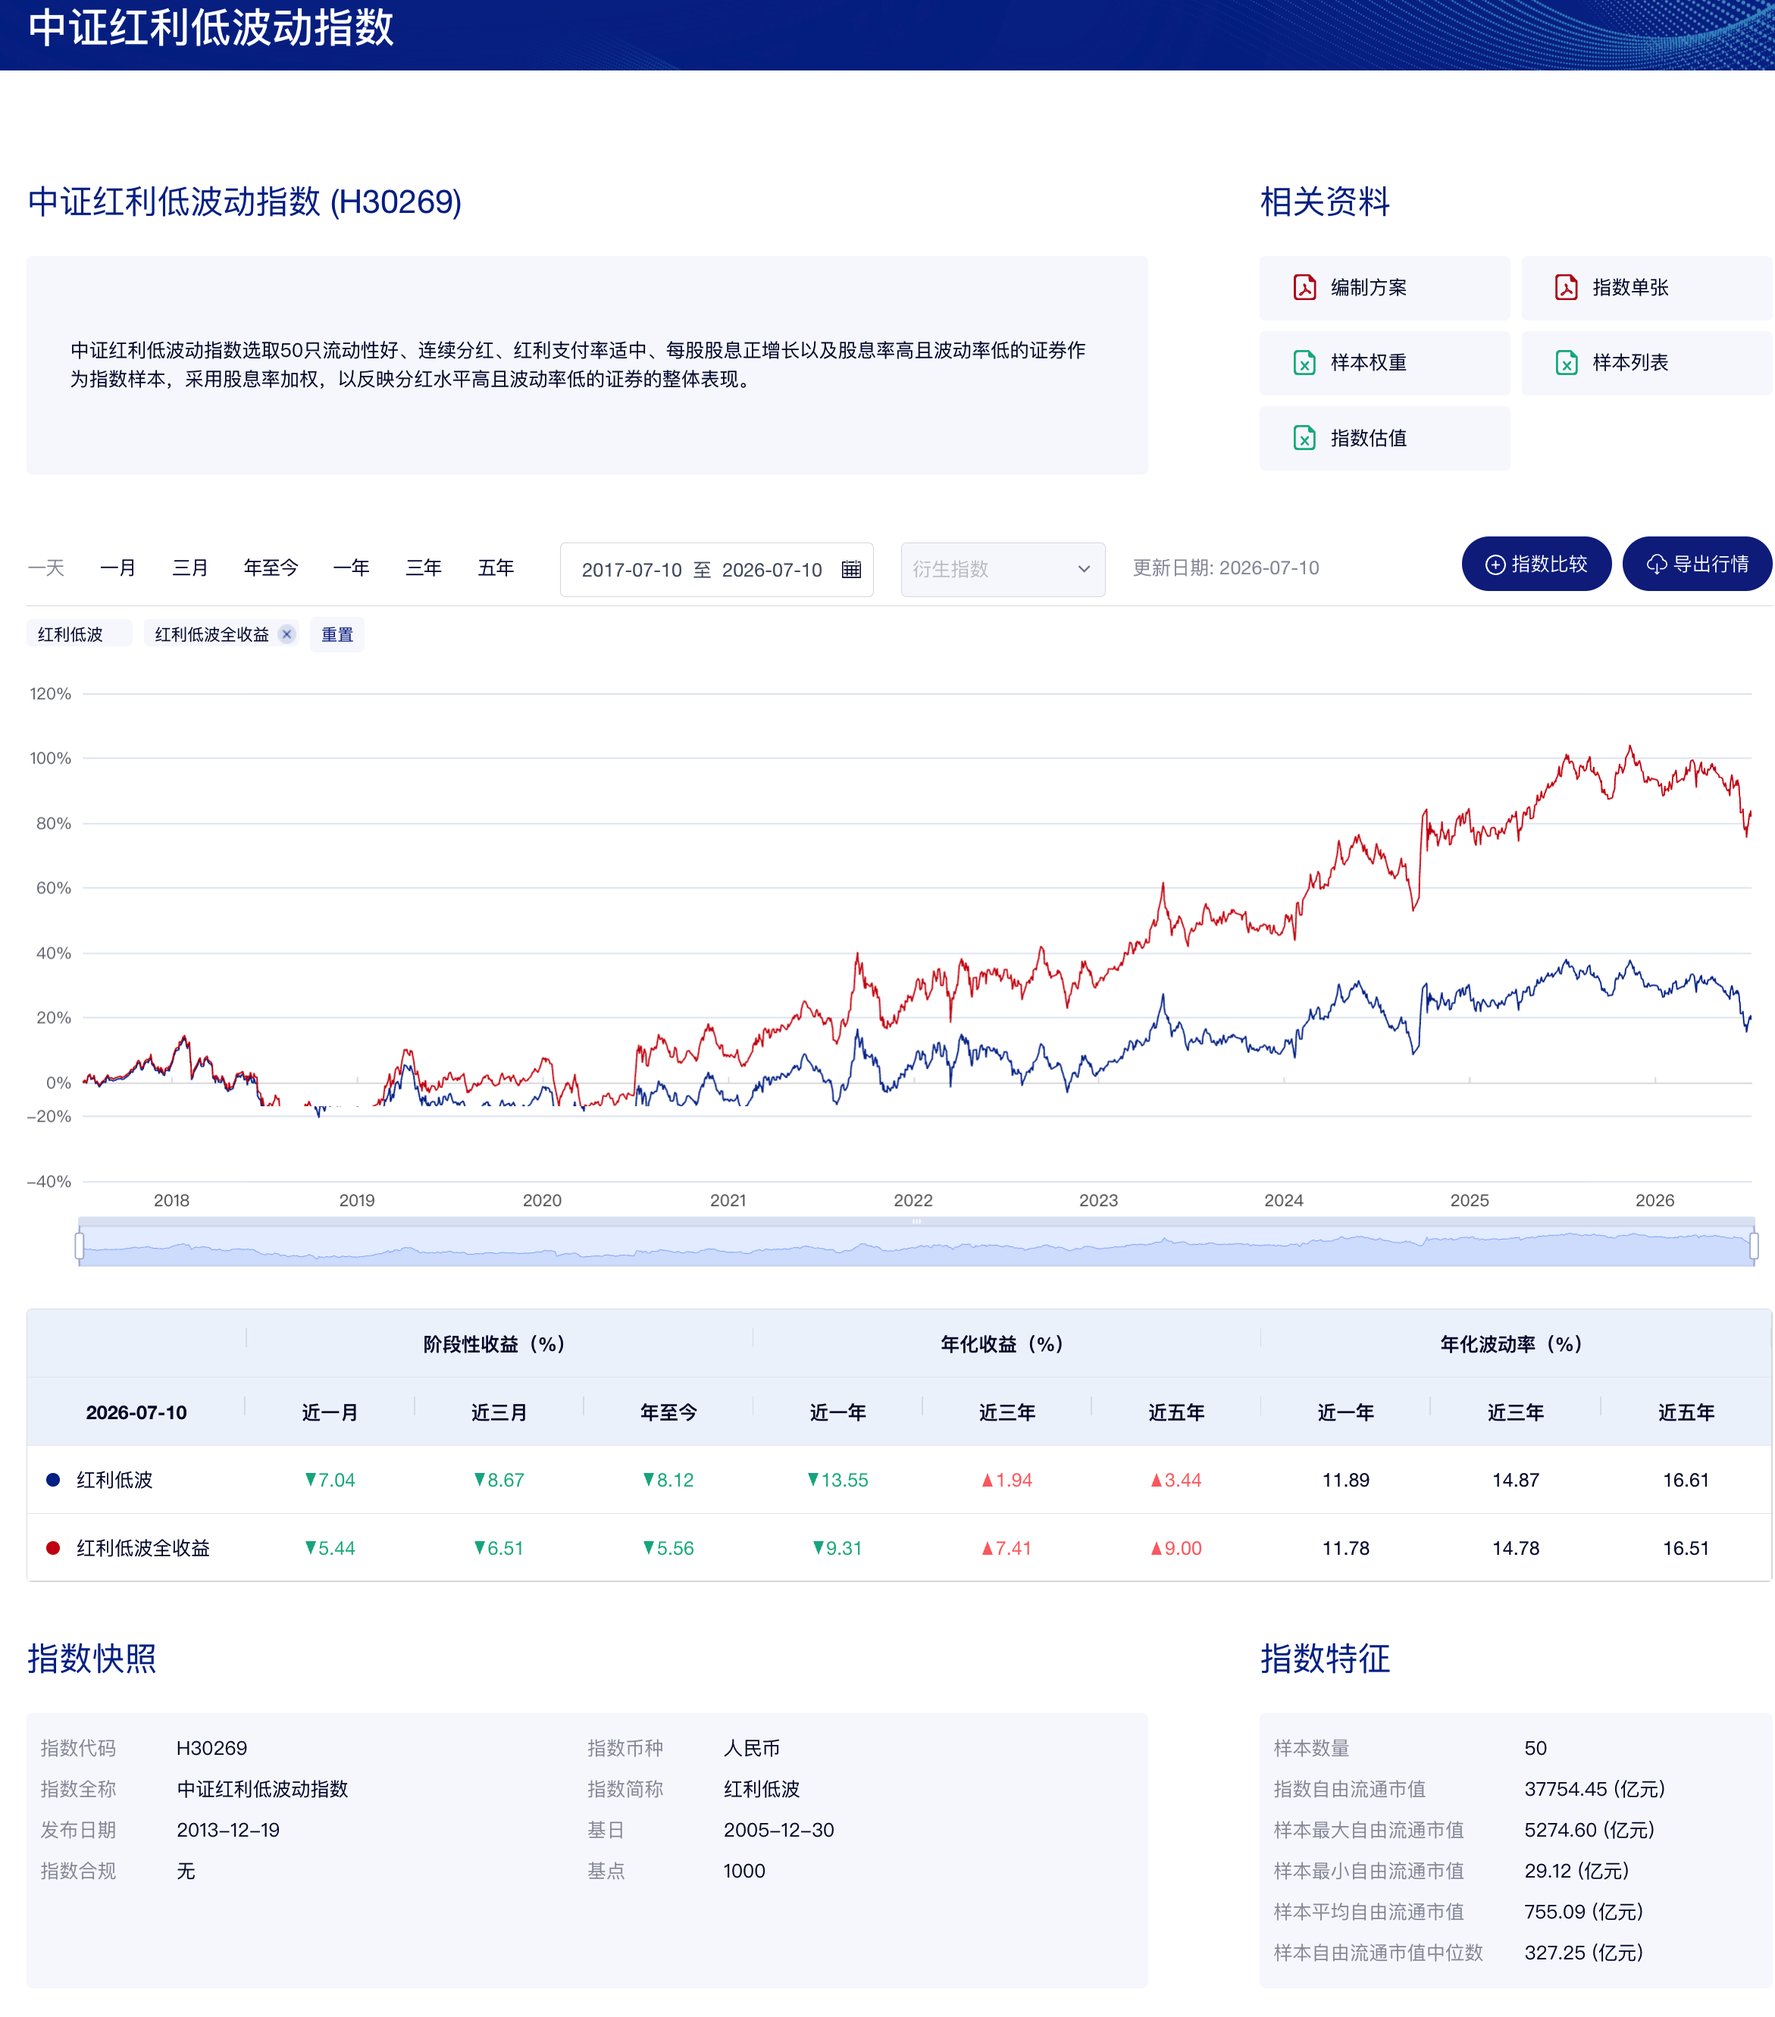
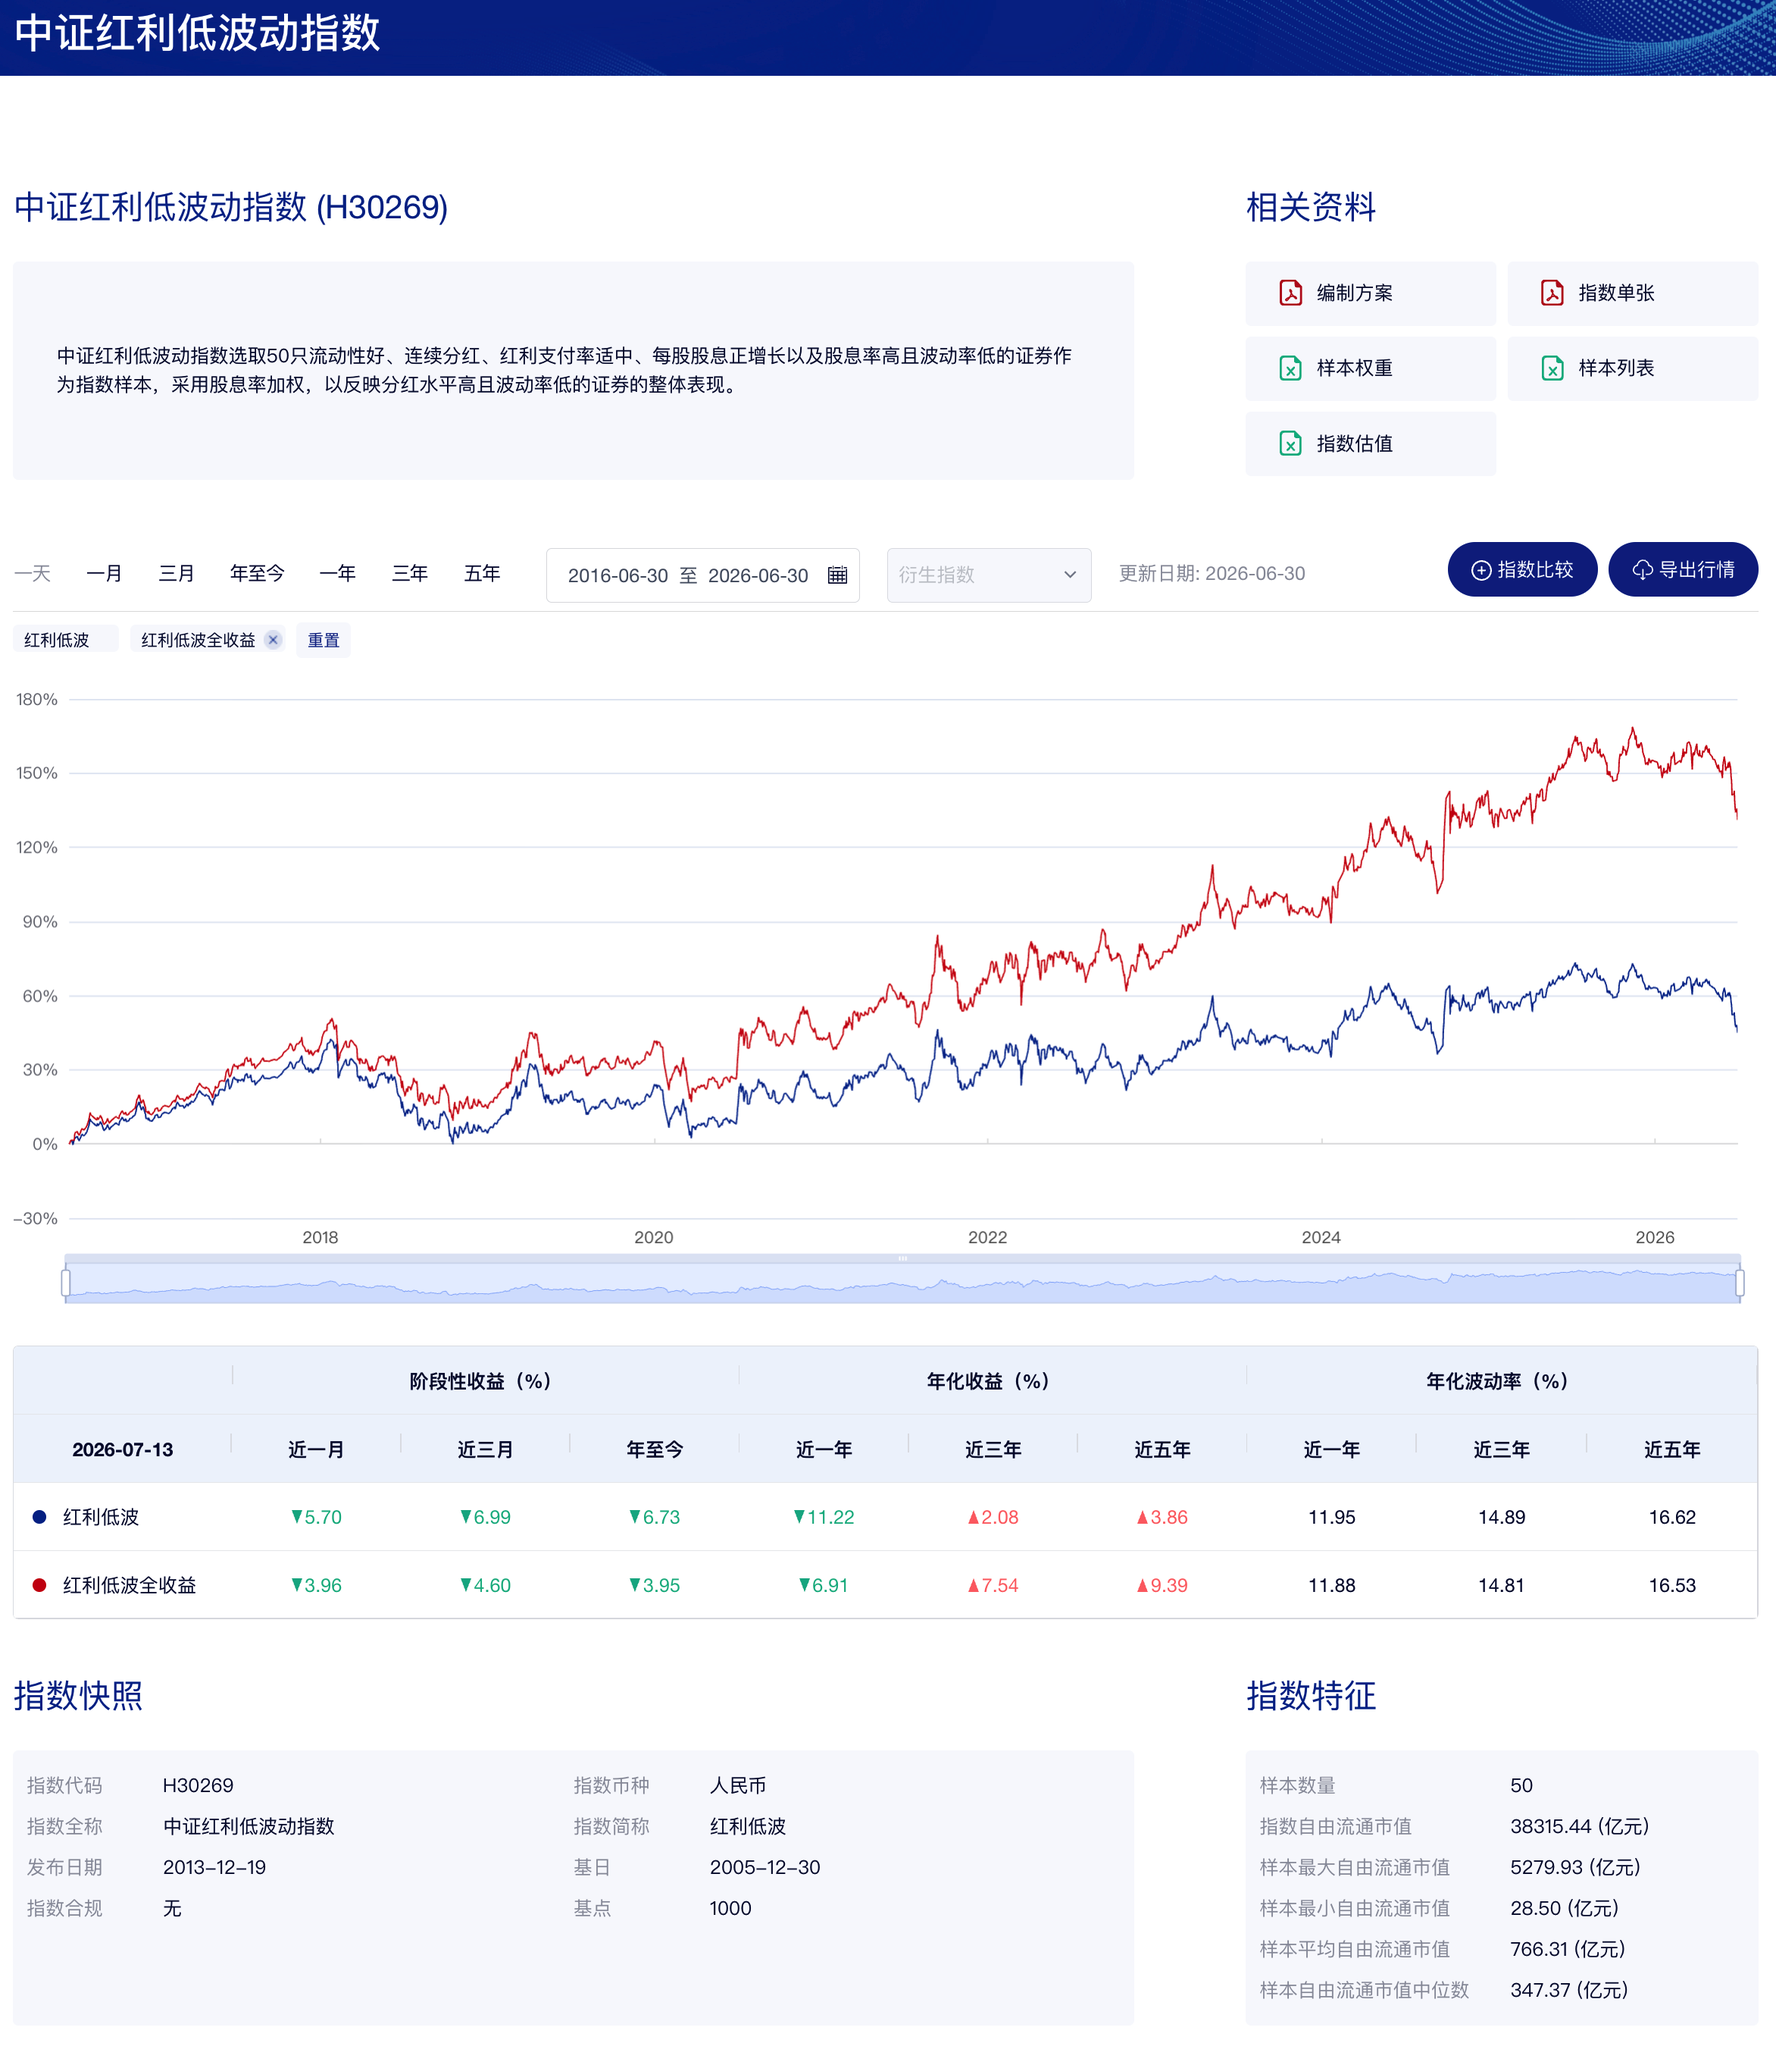
docs: 红利低波
报告数据统一为6.30，统一为税前全收益

diff --git a/红利低波优选/简短文章_三只红利低波指数怎么选.md b/红利低波优选/简短文章_三只红利低波指数怎么选.md
@@ -1,0 +1,71 @@
+# 三只优质红利低波指数怎么选：别只看股息率
+
+**对比对象**：
+
+- 中证沪港深红利成长低波动（931157）
+- 标普港股通低波红利(SPAHLVCP)
+- 中证红利低波动（H30269）
+
+数据基准：收益风险截至2026-06-30，估值截至2026-07-13。本文只讨论指数策略，不构成基金买卖建议。
+
+**先说结论**：
+
+1. 如果只能选一个长期红利核心候选，我更倾向沪港深红利成长低波。
+2. 如果更看重当前高股息、低估值和行业分散，标普港股通低波红利更有吸引力。
+3. 如果只投A股、偏好规则简单和历史分红质量，红利低波更匹配，但近年收益和风险收益比明显落后。
+
+三者都叫“红利低波”，但不是同一种策略。
+
+**红利低波**：核心是A股**高股息+历史分红质量+低波**。它要求连续分红、剔除异常支付率、每股股息增长，规则最容易理解。但问题也明显：**金融权重53.6%**，本质上带有很强的**银行因子**。
+
+**沪港深红利成长低波**：**核心是红利+盈利成长+低波**。它不只看过去分红，还看**ROE增长和稳定性**，样本100只，覆盖A股和港股。缺点是公式复杂，金融权重仍有44.4%，并且涉及汇率和港股税务。
+
+**标普港股通低波红利**：**核心是港股高股息+低波+分散封顶**。它单股上限3%，最大行业公用事业20%，金融只有16.7%，**行业分散度最好**。缺点是缺少利润增长、支付率和股息增长质量约束，高股息里可能混入周期性高分红。
+
+收益风险看，三者差异很清楚。以下均为人民币税前全收益口径，分红再投资，截止2026-06-30。
+
+| 指数 | 近1年 | 近3年年化 | 近5年年化 | 近3年波动 | 近5年波动 | 3年收益/波动 | 5年收益/波动 |
+|---|---:|---:|---:|---:|---:|---:|---:|
+| 沪港深红利成长低波 | -3.72% | 11.30% | 12.22% | 13.50% | 14.35% | 0.84 | 0.85 |
+| 标普港股通低波红利 | 2.72% | 13.94% | 11.26% | 13.99% | 17.40% | 1.00 | 0.65 |
+| 红利低波 | -6.91% | 7.54% | 9.39% | 14.81% | 16.53% | 0.51 | 0.57 |
+
+近3年，标普港股通低波红利更强：年化13.94%，收益/波动约1.00。近5年，沪港深红利成长低波更稳：年化12.22%，波动14.35%，收益/波动0.85。红利低波的问题不是波动特别高，而是收益不足，低波没有转化成更好的单位风险回报。
+
+估值上，标普港股通低波红利当前股息率6.15%、PB 0.56，最便宜也最高息。但要注意，这是指数层面的股息率，实际买基金还要扣港股股息红利税、基金费率和跟踪误差，不能直接等同于投资者税后到账收益。
+
+两个中证指数的补充估值也值得看：
+
+| 指标 | 红利低波 | 沪港深红利成长低波 |
+|---|---:|---:|
+| PE | 7.98倍 | 7.58倍 |
+| PE百分位 | 71.08% | 50.40% |
+| PB | 0.81倍 | 0.82倍 |
+| PB百分位 | 51.68% | 37.94% |
+| 股息率 | 5.32% | 4.75% |
+| ROE | 10.22% | 10.75% |
+| 预测PEG | 1.77 | 1.23 |
+
+红利低波股息率更高，但PE/PB历史分位并不低。沪港深红利成长低波股息率低一些，但PE分位、PB分位、ROE和预测PEG更好，更符合“红利不是越高越好，还要看盈利质量”的思路。
+
+我的综合评分如下：
+
+| 维度 | 权重 | 红利低波 | 沪港深红利成长低波 | 标普港股通低波红利 |
+|---|---:|---:|---:|---:|
+| 策略与分红可持续性 | 25 | 21 | 22 | 15 |
+| 中长期总收益 | 20 | 12 | 19 | 18 |
+| 风险与风险收益比 | 20 | 13 | 18 | 17 |
+| 分散度与集中风险 | 15 | 9 | 11 | 15 |
+| 估值与股息率 | 10 | 9 | 8 | 10 |
+| 可投资性与实盘检验 | 10 | 9 | 7 | 8 |
+| 总分 | 100 | 73 | 85 | 83 |
+
+这个分数不是绝对评级，只是三者横向比较。沪港深红利成长低波85分，标普港股通低波红利83分，差距并不大。前者胜在盈利成长约束、近5年风险收益和估值分位；后者胜在当前股息率、PB和行业分散。
+
+所以我的选择框架是：
+
+- 想找一个均衡型长期红利核心：优先看沪港深红利成长低波。
+- 想配置港股高股息、低估值、行业更分散的卫星仓：看标普港股通低波红利。
+- 只想投A股、看重规则简单和分红质量：红利低波可以看，但要接受银行集中和近年收益偏弱。
+
+最后提醒一句：指数好不等于基金好。真正买之前，还要看对应基金的规模、费率、成交额、跟踪误差、分红方式和税后收益。尤其是港股红利产品，税前股息率看起来高，税后和扣费后的实际总回报才更重要。
